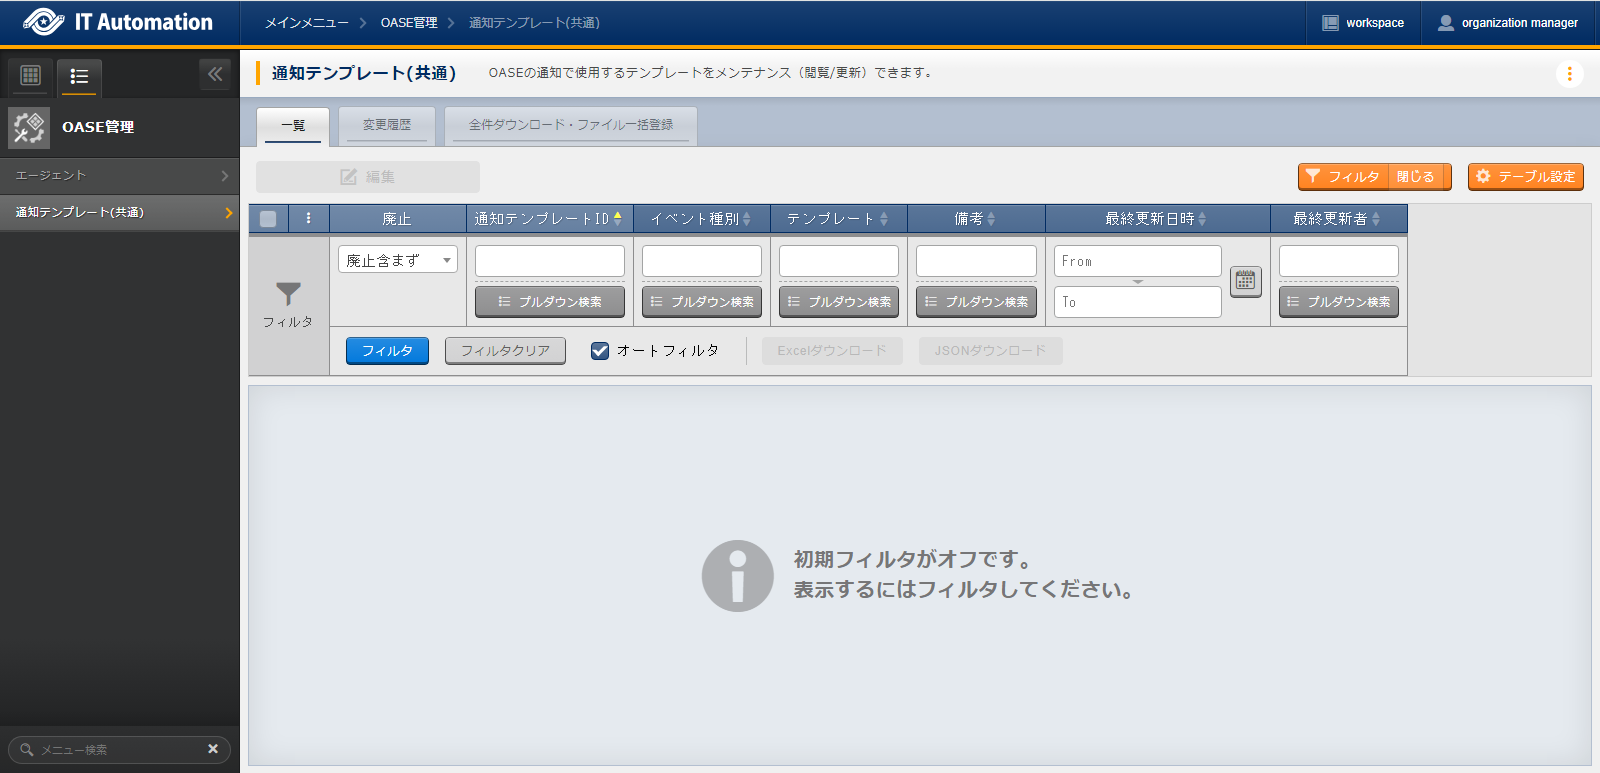
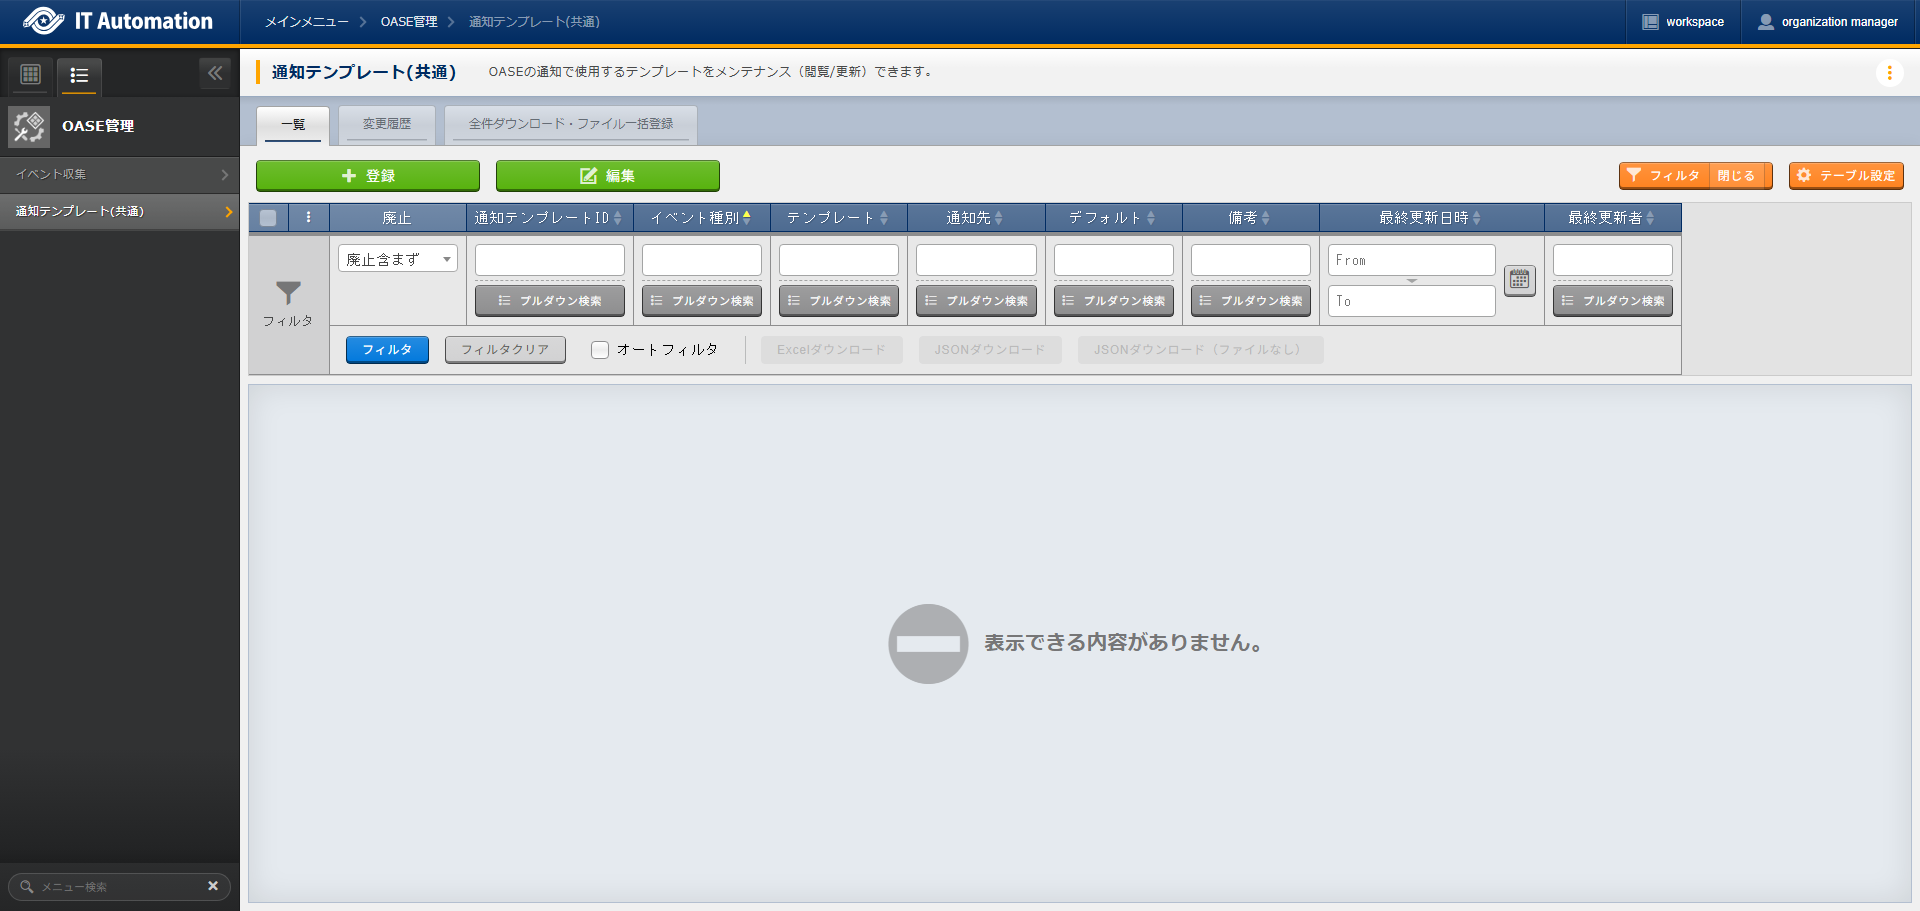
イベント種別と通知先の組み合わせごとにテンプレートを管理できる機能のメニュー説明更新

Changed region(s): [[0.0, 0.0, 1.0, 1.0], [0.4375, 0.652, 0.7188, 0.8072], [0.0, 0.9625, 0.0625, 0.9935]]

diff --git a/src/ja/2.7/manuals/oase/oase_management.rst b/src/ja/2.7/manuals/oase/oase_management.rst
@@ -297,7 +297,7 @@ OASE管理
 通知テンプレート（共通）
 ------------------------
 
-1. | :menuselection:`OASE管理 --> 通知テンプレート（共通）` では、OASEの通知機能で使用するテンプレートをメンテナンス（閲覧/更新）できます。
+1. | :menuselection:`OASE管理 --> 通知テンプレート（共通）` では、OASEの通知機能で使用するテンプレートをメンテナンス（閲覧/登録/更新/廃止）できます。
 
 .. figure:: /images/ja/oase/oase_management/notification_template_menu.png
    :width: 800px
@@ -317,8 +317,18 @@ OASE管理
      - 入力必須
      - 入力方法
      - 制約事項
+   * - イベント種別
+     - | テンプレートを使用するイベント種別を選択します。
+       | ・新規
+       | ・既知（判定済み）
+       | ・既知（時間切れ）
+       | ・未知
+     - 〇
+     - リスト選択
+     - ー
    * - テンプレート
-     - | 通知で使用するテンプレートを編集できます。下記4種類が存在します。
+     - | 通知で使用するテンプレートを編集できます。
+       | 下記4種類はデフォルトで使用するテンプレートになります。
        | ・New.j2
        | ・Known(evaluated).j2
        | ・Known(timeout).j2
@@ -326,11 +336,27 @@ OASE管理
      - 〇
      - 手動入力
      - 最大サイズ2MB
+   * - 通知先
+     - | テンプレートを使用する通知先を選択します。
+       | デフォルトのテンプレートには通知先を設定することはできません。
+       | デフォルト以外のテンプレートでは、イベント種別内でユニークな通知先を選択する必要があります。
+     - ー
+     - リスト選択
+     - ー
+   * - デフォルト
+     - イベント種別に対して、レコードにない通知先に送信する場合にはデフォルトのテンプレートが使用されます。
+     - ー
+     - ー
+     - ー
    * - 備考
      - 自由記述欄です。
      - ー
      - 手動入力
      - 最大長4000バイト
+
+.. tip::
+   | デフォルトのテンプレートは、テンプレート・備考のみ更新することができ、その他の項目は更新することはできません。  
+   | また、デフォルトのテンプレートはレコードを廃止することもできません。  
 
 | テンプレートの初期設定値は下記のとおりです。
 
